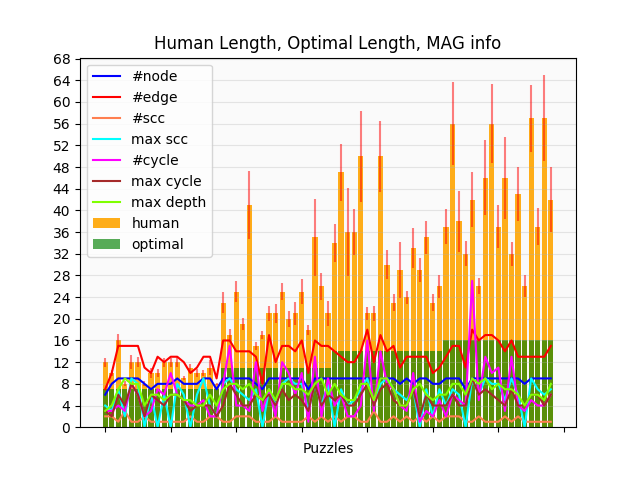
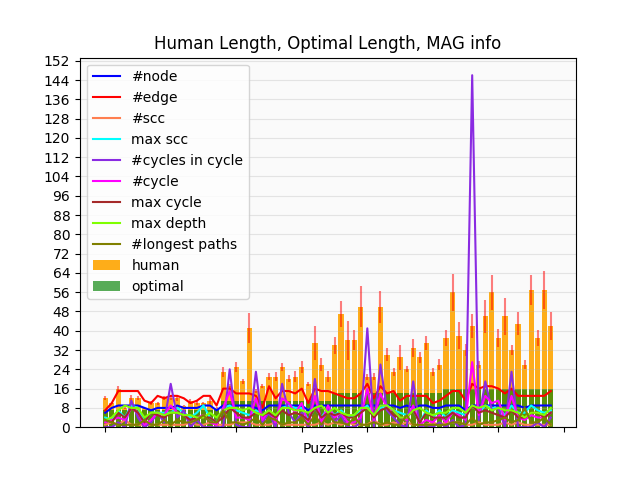
more mag info

Changed region(s): [[0.0625, 0.0938, 0.875, 0.9062], [0.1562, 0.3125, 0.2188, 0.3438]]

diff --git a/scripts/len_MAG_info.py b/scripts/len_MAG_info.py
@@ -21,7 +21,9 @@ mag_countscc_dict = {}
 mag_maxscc_dict = {}
 mag_countcycle_dict = {}
 mag_maxcycle_dict = {}
+mag_c_cycle_dict = {}
 mag_depth_dict = {}
+mag_ndepth_dict = {}
 humanlen_dict = {}
 mean_dict = {}
 optimal_dict = {}
@@ -67,22 +69,31 @@ for i in range(len(all_instances)): # calculate mean human len and std
 
 # process mag attributes
 for i in range(len(all_instances)):
+	# construct mag
 	cur_ins = all_instances[i]
 	ins_dir = ins_file + all_instances[i] + '.json'
 	my_car_list, my_red = MAG.json_to_car_list(ins_dir)
 	my_board = MAG.construct_board(my_car_list)
 	new_car_list = MAG.construct_mag(my_board, my_red)
+	# num nodes, num edges
 	n_node, n_edge = MAG.get_mag_attr(new_car_list)
 	mag_node_dict[cur_ins] = n_node
 	mag_edge_dict[cur_ins] = n_edge
+
 	countscc, _, maxlen = MAG.find_SCC(new_car_list)
 	mag_countscc_dict[cur_ins] = countscc
 	mag_maxscc_dict[cur_ins] = maxlen
+
 	countc, _, maxc = MAG.find_cycles(new_car_list)
 	mag_countcycle_dict[cur_ins] = countc
 	mag_maxcycle_dict[cur_ins] = maxc
-	depth, _ = MAG.longest_path(new_car_list)
+
+	c_cycle = MAG.num_in_cycles(new_car_list)
+	mag_c_cycle_dict[cur_ins] = c_cycle
+
+	depth, paths = MAG.longest_path(new_car_list)
 	mag_depth_dict[cur_ins] = depth
+	mag_ndepth_dict[cur_ins] = len(paths)
 
 
 # print special results
@@ -104,7 +115,9 @@ y_countscc = []
 y_maxscc = []
 y_countcycle = []
 y_maxcycle = []
+y_c_incycle = [] ##
 y_depth = []
+y_ndepth = [] ##
 for i in range(len(all_instances)):
 	y_human.append(mean_dict[all_instances[i]])
 	y_opt.append(optimal_dict[all_instances[i]])
@@ -112,9 +125,11 @@ for i in range(len(all_instances)):
 	y_edges.append(mag_edge_dict[all_instances[i]])
 	y_countscc.append(mag_countscc_dict[all_instances[i]])
 	y_maxscc.append(mag_maxscc_dict[all_instances[i]])
+	y_c_incycle.append(mag_c_cycle_dict[all_instances[i]])
 	y_countcycle.append(mag_countcycle_dict[all_instances[i]])
 	y_maxcycle.append(mag_maxcycle_dict[all_instances[i]])
 	y_depth.append(mag_depth_dict[all_instances[i]])
+	y_ndepth.append(mag_ndepth_dict[all_instances[i]])
 # generate figure
 fig = plt.figure()
 ax = fig.add_subplot(111)
@@ -131,9 +146,11 @@ plt.plot(np.arange(len(all_instances)), y_nodes, color='blue', label='#node')
 plt.plot(np.arange(len(all_instances)), y_edges, color='red', label='#edge')
 plt.plot(np.arange(len(all_instances)), y_countscc, color='coral', label='#scc')
 plt.plot(np.arange(len(all_instances)), y_maxscc, color='cyan', label='max scc')
+plt.plot(np.arange(len(all_instances)), y_c_incycle, color='blueviolet', label='#cycles in cycle')
 plt.plot(np.arange(len(all_instances)), y_countcycle, color='magenta', label='#cycle')
 plt.plot(np.arange(len(all_instances)), y_maxcycle, color='brown', label='max cycle')
 plt.plot(np.arange(len(all_instances)), y_depth, color='chartreuse', label='max depth')
+plt.plot(np.arange(len(all_instances)), y_ndepth, color='olive', label='#longest paths')
 # scatter1.set_zorder(2) # layer
 # scatter2.set_zorder(2) 
 # plt.plot(np.arange(len(all_instances)), y_nodes, color='blue', label='#nodes')
@@ -144,124 +161,120 @@ plt.legend(loc='upper left')
 plt.savefig(out_dir)
 plt.close()
 
-# # plot nodes vs len, edges vs len
-# fig, axarr = plt.subplots(2,2)
-# axarr[0,0].scatter(y_nodes, y_human, color='orange')
-# # axarr[0,0].set_xlabel('#nodes')
-# axarr[0,0].set_ylabel('human_len')
-# axarr[1,0].scatter(y_nodes, y_opt, color='green')
-# axarr[1,0].set_xlabel('#nodes')
-# axarr[1,0].set_ylabel('opt_len')
-# axarr[0,1].scatter(y_edges, y_human, alpha=0.8, color='red')
-# # axarr[0,1].set_xlabel('#edges')
-# # axarr[0,1].set_ylabel('human_len')
-# axarr[1,1].scatter(y_edges, y_opt, alpha=0.8, color='blue')
-# axarr[1,1].set_xlabel('#edges')
-# # axarr[1,1].set_ylabel('opt_len')
-# axarr[0,0].set_title('new MAG #nodes vs len, #edges vs len', loc='left')
-# #plt.show()
-# plt.savefig(out_dir_1)
-# plt.close()
-
-fig, axarr = plt.subplots(2, 4)
-axarr[0,0].scatter(y_opt, y_human)
-axarr[0,0].set_ylabel('y_opt')
-axarr[0,1].scatter(y_nodes, y_human)
-axarr[0,1].set_ylabel('y_nodes')
-axarr[0,2].scatter(y_edges, y_human)
-axarr[0,2].set_ylabel('y_edges')
-axarr[0,3].scatter(y_countscc, y_human)
-axarr[0,3].set_ylabel('y_countscc')
-axarr[1,0].scatter(y_maxscc, y_human)
-axarr[1,0].set_ylabel('y_maxscc')
-axarr[1,1].scatter(y_countcycle, y_human)
-axarr[1,1].set_ylabel('y_countcycle')
-axarr[1,2].scatter(y_maxcycle, y_human)
-axarr[1,2].set_ylabel('y_maxcycle')
-axarr[1,3].scatter(y_depth, y_human)
-axarr[1,3].set_ylabel('y_depth')
-plt.tight_layout(pad=2, h_pad=1, w_pad=1, rect=None) 
-# plt.show()
-plt.suptitle('human_len vs MAG info')
-plt.savefig('/Users/chloe/Documents/RushHour/figures/len_MAG_info_scatter.png')
-plt.close()
-
-
 
 # calculate pearson correlation and p-value
 corr_list = []
 p_list = []
+
+corr, p = stats.spearmanr(y_human, y_opt)
+corr_list.append(corr)
+p_list.append(p)
+print("SP-corr human_len & opt_len: %s, P-value is %s\n" % (str(format(corr, '.6f')), str(format(p, '.6f'))))
+
 corr, p = stats.spearmanr(y_human, y_nodes)
 corr_list.append(corr)
 p_list.append(p)
 print("SP-corr human_len & #nodes: %s, P-value is %s\n" % (str(format(corr, '.6f')), str(format(p, '.6f'))))
+
 corr, p = stats.spearmanr(y_human, y_edges)
 corr_list.append(corr)
 p_list.append(p)
 print("SP-corr human_len & #edges: %s, P-value is %s\n" % (str(format(corr, '.6f')), str(format(p, '.6f'))))
+
 corr, p = stats.spearmanr(y_human, y_countscc)
 corr_list.append(corr)
 p_list.append(p)
 print("SP-corr human_len & #scc: %s, P-value is %s\n" % (str(format(corr, '.6f')), str(format(p, '.6f'))))
+
 corr, p = stats.spearmanr(y_human, y_maxscc)
 corr_list.append(corr)
 p_list.append(p)
 print("SP-corr human_len & maxscc: %s, P-value is %s\n" % (str(format(corr, '.6f')), str(format(p, '.6f'))))
+
 corr, p = stats.spearmanr(y_human, y_countcycle)
 corr_list.append(corr)
 p_list.append(p)
 print("SP-corr human_len & #cycle: %s, P-value is %s\n" % (str(format(corr, '.6f')), str(format(p, '.6f'))))
+
 corr, p = stats.spearmanr(y_human, y_maxcycle)
 corr_list.append(corr)
 p_list.append(p)
 print("SP-corr human_len & max cycle: %s, P-value is %s\n" % (str(format(corr, '.6f')), str(format(p, '.6f'))))
+
+corr, p = stats.spearmanr(y_human, y_c_incycle)
+corr_list.append(corr)
+p_list.append(p)
+print("SP-corr human_len & #cycles in cycle: %s, P-value is %s\n" % (str(format(corr, '.6f')), str(format(p, '.6f'))))
+
 corr, p = stats.spearmanr(y_human, y_depth)
 corr_list.append(corr)
 p_list.append(p)
 print("SP-corr human_len & max depth: %s, P-value is %s\n" % (str(format(corr, '.6f')), str(format(p, '.6f'))))
 
+corr, p = stats.spearmanr(y_human, y_ndepth)
+corr_list.append(corr)
+p_list.append(p)
+print("SP-corr human_len & #longtest paths: %s, P-value is %s\n" % (str(format(corr, '.6f')), str(format(p, '.6f'))))
 
 
+# create correlation plot
+fig, axarr = plt.subplots(2, 5, figsize=(15, 6))
 
-# DEBUG:
-# print(y_nodes)
-# print(y_opt)
-# print(stats.spearmanr(y_opt,y_nodes))
-# a = np.random.rand(len(y_nodes))
-# print(stats.spearmanr(np.array(y_opt), a))
-# fig1 = plt.figure()
-# ax1 = fig1.add_subplot(111)
-# ax1.scatter(y_opt+0.1*np.random.rand(len(y_nodes)),y_nodes+0.1*np.random.rand(len(y_nodes)))
+axarr[0,0].scatter(y_opt, y_human)
+axarr[0,0].set_ylabel('opt_len')
+t = 'Spearman corr: %1.5f,\nP-value=%1.5f'%(corr_list[0],p_list[0])
+axarr[0,0].set_title(t,y=0.85,fontsize=8,fontweight='bold')
+
+axarr[0,1].scatter(y_nodes, y_human)
+axarr[0,1].set_ylabel('#node')
+t = 'Spearman corr: %1.5f,\nP-value=%1.5f'%(corr_list[1],p_list[1])
+axarr[0,1].set_title(t,y=0.85,fontsize=8,fontweight='bold')
+
+axarr[0,2].scatter(y_edges, y_human)
+axarr[0,2].set_ylabel('#edge')
+t = 'Spearman corr: %1.5f,\nP-value=%1.5f'%(corr_list[2],p_list[2])
+axarr[0,2].set_title(t,y=0.85,fontsize=8,fontweight='bold')
+
+axarr[0,3].scatter(y_countscc, y_human)
+axarr[0,3].set_ylabel('#scc')
+t = 'Spearman corr: %1.5f,\nP-value=%1.5f'%(corr_list[3],p_list[3])
+axarr[0,3].set_title(t,y=0.85,fontsize=8,fontweight='bold')
+
+axarr[0,4].scatter(y_maxscc, y_human)
+axarr[0,4].set_ylabel('max scc size')
+t = 'Spearman corr: %1.5f,\nP-value=%1.5f'%(corr_list[4],p_list[4])
+axarr[0,4].set_title(t,y=0.85,fontsize=8,fontweight='bold')
+
+axarr[1,0].scatter(y_countcycle, y_human)
+axarr[1,0].set_ylabel('#cycle')
+t = 'Spearman corr: %1.5f,\nP-value=%1.5f'%(corr_list[5],p_list[5])
+axarr[1,0].set_title(t,y=0.85,fontsize=8,fontweight='bold')
+
+axarr[1,1].scatter(y_maxcycle, y_human)
+axarr[1,1].set_ylabel('max cycle size')
+t = 'Spearman corr: %1.5f,\nP-value=%1.5f'%(corr_list[6],p_list[6])
+axarr[1,1].set_title(t,y=0.85,fontsize=8,fontweight='bold')
+
+axarr[1,2].scatter(y_c_incycle, y_human)
+axarr[1,2].set_ylabel('#cycles in cycle')
+t = 'Spearman corr: %1.5f,\nP-value=%1.5f'%(corr_list[7],p_list[7])
+axarr[1,2].set_title(t,y=0.85,fontsize=8,fontweight='bold')
+
+axarr[1,3].scatter(y_depth, y_human)
+axarr[1,3].set_ylabel('longtest path len from red')
+t = 'Spearman corr: %1.5f,\nP-value=%1.5f'%(corr_list[8],p_list[8])
+axarr[1,3].set_title(t,y=0.85,fontsize=8,fontweight='bold')
+
+axarr[1,4].scatter(y_ndepth, y_human)
+axarr[1,4].set_ylabel('#longest paths')
+t = 'Spearman corr: %1.5f,\nP-value=%1.5f'%(corr_list[9],p_list[9])
+axarr[1,4].set_title(t,y=0.85,fontsize=8,fontweight='bold')
+
+plt.tight_layout(pad=1.5, h_pad=1, w_pad=1, rect=None) 
+plt.suptitle('human_len vs MAG info', y=0.99, fontsize=13, fontweight='bold')
 # plt.show()
+plt.savefig('/Users/chloe/Documents/RushHour/figures/len_MAG_info_scatter.png')
+plt.close()
 
-
-'''
-results:
-
-P-corr human_len & #nodes+#edges: 0.388062, P-value is 0.000902
-
-P-corr opt_len & #nodes+#edges: 0.352236, P-value is 0.002786
-
-P-corr human_len & #nodes: 0.418855, P-value is 0.000308
-
-P-corr human_len & #edges: 0.358257, P-value is 0.002325
-
-P-corr opt_len & #nodes: 0.355621, P-value is 0.002518
-
-P-corr opt_len & #edges: 0.332458, P-value is 0.004925
-
-
-SP-corr human_len & #nodes+#edges: 0.373598, P-value is 0.001444
-
-SP-corr opt_len & #nodes+#edges: 0.302283, P-value is 0.010980
-
-SP-corr human_len & #nodes: 0.475145, P-value is 0.000032
-
-SP-corr human_len & #edges: 0.348554, P-value is 0.003106
-
-SP-corr opt_len & #nodes: 0.352581, P-value is 0.002757
-
-SP-corr opt_len & #edges: 0.286088, P-value is 0.016355
-'''
 
 
